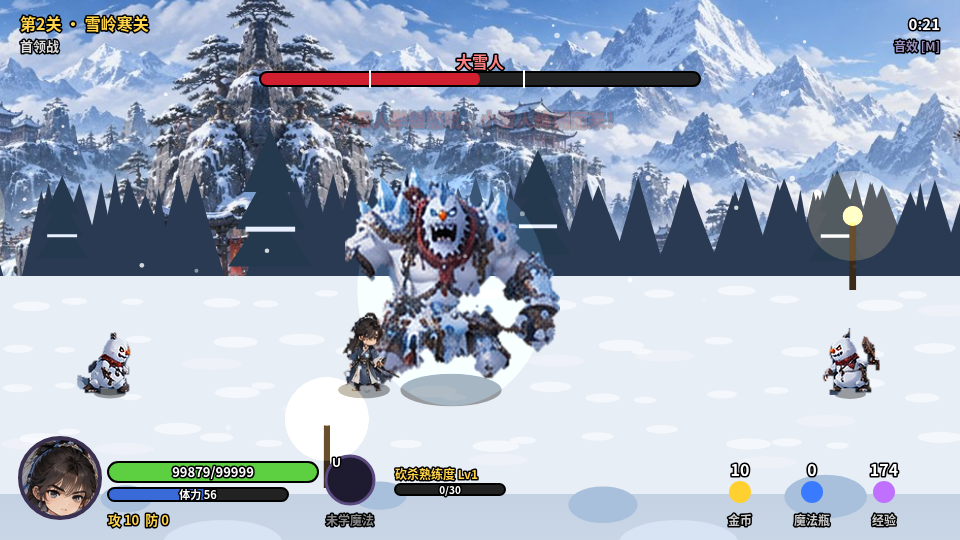
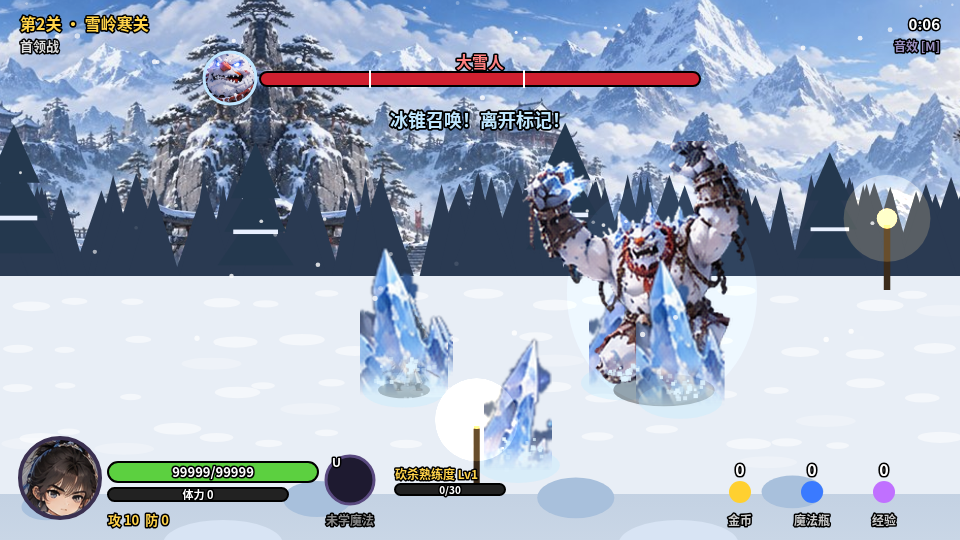
Stage 2 boss: dedicated snowboss sheet (BiRefNet cut), new moves (swing, smash+spike line, ice spike summon, giant snowball, frost shockwave, death), HP-bar expression portrait, docs

diff --git a/game.js b/game.js
@@ -44,7 +44,7 @@ const BOSSES={
  goblin_chief:{name:'哥布林酋长',shape:'big',hp:900,dmg:16,sp:55,exp:150,r:1.9,sc:1.12,col:'#4f8a3a',
   phases:[{at:1,pats:['combo','charge'],cd:1.9},{at:.5,pats:['combo','smash','summon'],summon:'goblin',cd:1.5,msg:'酋长怒吼，召唤援军！'}]},
  great_yeti:{name:'大雪人',shape:'snowboss',hp:2300,dmg:18,sp:60,exp:260,r:2.3,col:'#f2f7ff',face:'#3a6ac8',horns:1,crystals:1,
-  phases:[{at:1,pats:['hammer','snowballs','slam','roll'],cd:1.6},{at:.6,pats:['snowballs','summon','hammer','roll','slam'],summon:'yeti_pup',cd:1.35,msg:'大雪人举锤怒吼，小雪人蜂拥而来！'},{at:.25,pats:['blizzard','hammer','slam','roll','snowballs'],cd:1.05,enrage:1,msg:'暴风雪降临！冰石如雨！'}]},
+  phases:[{at:1,pats:['hammer','snowballs','slam','iceSummon','frostwave'],cd:1.6},{at:.6,pats:['snowballs','summon','hammer','iceSummon','slam','frostwave'],summon:'yeti_pup',cd:1.35,msg:'大雪人举锤怒吼，小雪人蜂拥而来！'},{at:.25,pats:['blizzard','hammer','slam','iceSummon','frostwave','roll'],cd:1.05,enrage:1,msg:'暴风雪降临！冰石如雨！'}]},
  flame_king:{name:'焰魔王·赤烎',shape:'warrior',hp:2400,dmg:22,sp:60,exp:400,r:2.4,col:'#7a0a08',horn:'#1a0a08',weapon:'#ff6a10',flame:1,king:1,
   phases:[{at:1,pats:['sweep','fireWave','sweep'],cd:1.6},{at:.6,pats:['geysers','summon','sweep','fireWave'],summon:'lava_imp',cd:1.35,msg:'赤烎召唤熔岩喷泉！'},
    {at:.25,pats:['meteors','fireWave','sweep','geysers'],cd:1.0,enrage:1,shrink:1,msg:'火山爆发！熔岩吞噬战场边缘！'}],
@@ -339,13 +339,18 @@ function updateBoss(e,dt,sl){const p=G.p,d=e.def;const ph=curPhase(e);
   case 'bloodOrbs':if(T>.5&&e.step<3&&T>.5+e.step*.3){e.step++;const a0=Math.atan2(p.y-e.y,p.x-e.x);for(let i=-2;i<=2;i++){const a=a0+i*.22;G.ep.push({k:'bloodorb',x:e.x+e.face*30,y:e.y,z:60,vx:Math.cos(a)*260,vy:Math.sin(a)*130,dmg:e.dmg*.6,life:3,own:e})}sfx('fire')}
    if(T>1.6)done();break;
   case 'bloodBurst':if(!e.step){e.step=1;G.hz.push({k:'burst',x:e.x,y:e.y,rx:280,ry:110,t:0,warn:1.7,act:.4,dmg:e.dmg*1.8,once:1,noz:1});msg('血爆！远离伯爵！','#ff3040')}if(T>2.3)done();break;
-  case 'hammer':if(T<.6){e.face=dx>0?1:-1;if(ad>reach)e.x+=e.face*e.sp*1.2*dt}else if(!e.step){e.step=1;sfx('swing');G.shake=10;strike(e,reach+60,1.4,60);const hx=e.x+e.face*90;particles(hx,e.y,18,'#dff4ff',18,200);G.hz.push({k:'shock',x:hx,y:e.y,r0:10,r1:120,t:0,act:.35,dmg:0,ice:1})}if(T>1.15)done();break;
-  case 'snowballs':case 'blizzard':{const n=e.pat==='blizzard'?10:3;const per=e.pat==='blizzard'?.14:.42;
-   if(T>.55+e.step*per&&e.step<n){e.step++;sfx('swing');const near=e.pat==='snowballs'&&e.step===1;const ice=e.pat==='snowballs'||e.step%3===0;lobSnow(e,p.x+(near?0:rnd(-220,220)),p.y+rnd(-40,40),e.dmg*(ice?1.1:.8),ice?70:48,ice?2:1.2,1.0+rnd(0,.35));if(ice)G.hz[G.hz.length-1].ice=1}
+  case 'hammer':if(T<.6){e.face=dx>0?1:-1;if(ad>reach)e.x+=e.face*e.sp*1.2*dt}else if(!e.step){e.step=1;sfx('swing');G.shake=10;strike(e,reach+60,1.4,60);const hx=e.x+e.face*90;particles(hx,e.y,18,'#dff4ff',18,200);G.hz.push({k:'shock',x:hx,y:e.y,r0:10,r1:120,t:0,act:.35,dmg:0,ice:1,sb:e.def.shape==='snowboss'?1:0})}if(T>1.15)done();break;
+  case 'snowballs':case 'blizzard':{const n=e.pat==='blizzard'?10:(e.def.shape==='snowboss'?2:3);const per=e.pat==='blizzard'?.14:.6;
+   if(T>.55+e.step*per&&e.step<n){e.step++;sfx('swing');const near=e.pat==='snowballs'&&e.step===1;const ice=e.pat==='snowballs'||e.step%3===0;const giant=e.pat==='snowballs'&&e.def.shape==='snowboss';lobSnow(e,p.x+(near?0:rnd(-220,220)),p.y+rnd(-40,40),e.dmg*(giant?1.3:ice?1.1:.8),giant?90:ice?70:48,giant?2.6:ice?2:1.2,(giant?1.25:1.0)+rnd(0,.35));if(giant)G.hz[G.hz.length-1].giant=1;else if(ice)G.hz[G.hz.length-1].ice=1}
    if(T>.9+n*per)done();break}
-  case 'slam':if(T>.95&&!e.step){e.step=1;G.shake=16;sfx('erupt');for(let i=0;i<3;i++)G.hz.push({k:'shock',x:e.x+e.face*40,y:e.y,r0:30,r1:300+i*40,t:-i*.3,act:.9,dmg:e.dmg*.9,ice:1});
+  case 'slam':if(T>.95&&!e.step){e.step=1;G.shake=16;sfx('erupt');G.hz.push({k:'shock',x:e.x+e.face*60,y:e.y,r0:20,r1:150,t:0,act:.5,dmg:0,ice:1});for(let i=0;i<9;i++)G.hz.push({k:'spike',sb:1,x:e.x+e.face*(110+i*62),y:e.y+rnd(-8,8),rx:30,ry:13,t:0,warn:.08+i*.07,act:.45,dmg:e.dmg*.9,once:1,v:i%2});
     if(Math.hypot(p.x-e.x-e.face*40,(p.y-e.y)*1.6)<110&&p.z<20)hurtPlayer(e.dmg*1.5,e);particles(e.x+e.face*40,e.y,10,'#ffffff',30,240)}
    if(T>1.7)done();break;
+  case 'iceSummon':if(T>.35&&!e.step){e.step=1;sfx('roar');const n=ph.enrage?7:5;for(let i=0;i<n;i++){const b=laneAt(p.x);const tx=i===0?p.x:clamp(p.x+rnd(-300,300),G.camX+40,G.camX+W-40);
+    G.hz.push({k:'spike',sb:1,x:tx,y:i===0?p.y:rnd(b[0],b[1]),rx:38,ry:16,t:0,warn:1.0+i*.06,act:.55,dmg:e.dmg,once:1,v:i%2,big:1})}msg('冰锥召唤！离开标记！','#bfe6ff')}
+   if(T>1.9)done();break;
+  case 'frostwave':if(T>.6&&!e.step){e.step=1;G.shake=14;sfx('erupt');for(let i=0;i<3;i++)G.hz.push({k:'shock',x:e.x,y:e.y,r0:40,r1:330+i*50,t:-i*.28,act:1,dmg:e.dmg*.85,ice:1,sb:1});particles(e.x,e.y,10,'#dff4ff',30,260)}
+   if(T>1.8)done();break;
   case 'roll':if(!e.step){e.step=1;msg('巨型雪球！跳起或换行躲避！','#bfe6ff')}
    if(T>.8&&e.step===1){e.step=2;const fromL=p.x>G.camX+W/2;const x0=fromL?G.camX-60:G.camX+W+60;G.ep.push({k:'rollball',x:x0,y:p.y,z:0,vx:(fromL?1:-1)*(360+80*(ph.enrage?1:0)),vy:0,dmg:e.dmg*1.2,life:5,ground:1,hw:52,hh:26,rad:58});sfx('roar')}
    if(T>1.4)done();break;
@@ -540,32 +545,36 @@ function enemyAnim(e){const d=e.def;if(e.dead)return ['death',e.deadT,false,6];i
  if(e.state==='wind'||e.state==='strike'){const T=e.state==='wind'?e.t/e.wind*.5:.5+e.t;if(sh==='big'&&e.atkType==='smash')return ['smash',T*1.5,false,4];return ['attack',T*1.8,false,5]}
  if(e.state==='leap')return [sh==='big'?'leap':'jumpatk',e.t,false,6];
  if(e.moving)return [d.ai==='fast'||e.boss&&curPhase(e).enrage?'run':'walk',e.at,true,8];return ['idle',e.at,true,5]}
-// 大雪人：单张正面高清立绘 + 补间姿态（避免低清动作帧的锯齿与特效残留）
-function bossPose(e){const P=e.pat,T=e.patT||0,o={dx:0,dy:0,qx:1,qy:1,rot:0,glow:0};const br=Math.sin(G.t*3);
- if(e.dead){const k=Math.min(1,e.deadT);o.rot=-.35*k;o.dy=10*k;o.qy=1-.15*k;return o}
- if(e.hurtT>0){o.rot=-.05;o.dx=-e.face*3}
- if(P==='hammer'||P==='roll'){const w=P==='hammer'?.6:.8;if(T<w){const k=T/w;o.rot=-.14*k;o.qy=1+.06*k;o.qx=1-.03*k;o.dx=-e.face*6*k}
-  else{const k=Math.min(1,(T-w)/.1),r=Math.max(0,1-(T-w-.1)/.45);o.rot=(.18*k)*r;o.qy=1-.1*k*r;o.qx=1+.08*k*r;o.dx=e.face*14*k*r}}
- else if(P==='slam'){if(T<.2){const k=T/.2;o.qy=1-.12*k;o.qx=1+.08*k}else if(T<.95){const k=(T-.2)/.75;o.dy=-Math.sin(k*Math.PI)*80;o.qy=1.06;o.qx=.96;o.rot=.05*Math.sin(k*Math.PI)}
-  else{const r=Math.max(0,1-(T-.95)/.35);o.qy=1-.16*r;o.qx=1+.12*r}}
- else if(P==='snowballs'||P==='blizzard'){const per=P==='blizzard'?.14:.42,ph=T<.55?T/.55:((T-.55)/per)%1;const s=Math.sin(ph*Math.PI*2);o.rot=-.1*s;o.qy=1+.05*s;o.qx=1-.03*s}
- else if(P==='summon'){o.dx=Math.sin(G.t*45)*3;o.qy=1.05+.02*br;o.glow=.18+.08*Math.sin(G.t*10)}
- else if(e.moving){const w=Math.sin(e.at*7);o.dy=-Math.abs(w)*6;o.rot=.04*w;o.qy=1+.02*Math.abs(w)}
- else{o.qy=1+.02*br;o.qx=1-.01*br}
+// 大雪人：ref/snowboss_sheet.png 动作帧（BiRefNet 抠图）+ 帧间补间（稀疏帧靠挤压/位移/旋转过渡）
+function drawBossFrame(name,x,y,face,sx,sy){const A=SNOWBOSS_ATLAS,f=A.frames[name];if(!f||!ready('snowboss'))return;ctx.save();ctx.imageSmoothingEnabled=true;ctx.imageSmoothingQuality='high';ctx.translate(x,y);ctx.scale(face*sx,sy);ctx.drawImage(IMG.snowboss,f.x,f.y,f.w,f.h,-f.ax,-f.ay,f.w,f.h);ctx.restore()}
+function bossPose(e){const P=e.pat,T=e.patT||0,o={fr:'idle',dx:0,dy:0,qx:1,qy:1,rot:0,glow:0,arc:0};const br=Math.sin(G.t*3);
+ if(e.dead){const k=Math.min(1,e.deadT/.35);o.fr=e.deadT<.25?'shock':'death';if(e.deadT<.25){o.qy=1-.1*k}else{const j=Math.min(1,(e.deadT-.25)/.2);o.qy=.85+.15*j;o.dy=6*(1-j)}return o}
+ if(P==='hammer'){if(T<.6){const k=T/.6;o.fr='swing';o.rot=-.1*k;o.qy=1+.04*k;o.dx=-e.face*8*k}
+  else{const k=Math.min(1,(T-.6)/.08),r=Math.max(0,1-(T-.75)/.4);o.fr='shock';o.dx=e.face*(18*k*Math.min(1,r+.3));o.qy=1-.08*k*r;o.qx=1+.06*k*r;o.rot=.06*k*r;o.arc=T<.92?1-(T-.6)/.32:0}}
+ else if(P==='slam'){if(T<.22){const k=T/.22;o.fr='idle';o.qy=1-.12*k;o.qx=1+.08*k}else if(T<.95){const k=(T-.22)/.73;o.fr='smash';o.dy=-Math.sin(k*Math.PI)*70;o.rot=-.06+.12*k}
+  else{const r=Math.max(0,1-(T-.95)/.35);o.fr='shock';o.qy=1-.14*r;o.qx=1+.1*r}}
+ else if(P==='iceSummon'||P==='summon'){const k=Math.min(1,T/.3);o.fr=T<.12?'idle':'summon';o.qy=.9+.1*k+.02*br;o.dx=T>.3?Math.sin(G.t*40)*2.5:0;o.glow=.12+.08*Math.sin(G.t*10)}
+ else if(P==='frostwave'){if(T<.6){const k=T/.6;o.fr='summon';o.qy=1+.05*k;o.dy=-14*Math.sin(k*Math.PI*.5);o.glow=.2*k}else{const r=Math.max(0,1-(T-.6)/.35);o.fr='shock';o.qy=1-.14*r;o.qx=1+.1*r;o.glow=.25*r}}
+ else if(P==='snowballs'||P==='blizzard'){const per=P==='blizzard'?.14:.6;if(T<.55){const k=T/.55;o.fr='summon';o.qy=.94+.06*k;o.rot=-.06*k}else{const ph=((T-.55)/per)%1;o.fr=ph<.55?'throw':'summon';o.rot=ph<.55?.05*(1-ph/.55):-.04;o.dx=ph<.55?e.face*8*(1-ph/.55):0}}
+ else if(P==='roll'){o.fr=T<.8?'swing':'throw';if(T>=.8){const r=Math.max(0,1-(T-.8)/.4);o.dx=e.face*12*r}}
+ else if(e.moving){const i=Math.floor(e.at*5)%4;o.fr=['walk_0','walk_1','walk_2','walk_1'][i];const w=Math.sin(e.at*5*Math.PI/2);o.dy=-Math.abs(w)*4;o.rot=.02*w}
+ else{o.fr='idle';o.qy=1+.025*br;o.qx=1-.012*br}
+ if(e.hurtT>0){o.rot-=.05;o.dx-=e.face*4}
  if(curPhase(e)&&curPhase(e).enrage&&!o.glow)o.glow=.08+.05*Math.sin(G.t*6);return o}
 function drawEnemy(e,sx){const d=e.def,sh=d.shape;const y=e.y-e.z;if(e.hidden){return}
- const alpha=e.dead?clamp(1.2-e.deadT,0,1):1;ctx.save();ctx.globalAlpha=alpha;
+ const alpha=e.dead?clamp((sh==='snowboss'?2.4:1.2)-e.deadT,0,1):1;ctx.save();ctx.globalAlpha=alpha;
  shadow(sx,e.y,22*e.r*(d.fly?.7:1),d.fly?.25:.35);
  const [an,t,loop,fps]=enemyAnim(e);
  if(sh==='gob'||sh==='big'||sh==='bat'||sh==='vamp'||sh==='snow'||sh==='snowboss'){const A={gob:GOBLIN_ATLAS,big:BIGGOBLIN_ATLAS,bat:BAT_ATLAS,vamp:VAMPIRE_ATLAS,snow:SNOWMAN_ATLAS,snowboss:SNOWBOSS_ATLAS}[sh];const ik=sh;
-  const base={gob:1.35,big:1.7,bat:1.5,vamp:1.55,snow:.85*e.r,snowboss:.82}[sh];let sc=base*(e.sc||1);
+  const base={gob:1.35,big:1.7,bat:1.5,vamp:1.55,snow:.85*e.r,snowboss:.9}[sh];let sc=base*(e.sc||1);
   const an2=A.anims[an]?an:'idle';
   if(e.frozen>0)ctx.filter='saturate(.2) brightness(1.3) hue-rotate(160deg)';else if(e.hurtT>0)ctx.filter='brightness(2)';else if(e.stun>0)ctx.filter='brightness(1.3)';else if(d.tintF)ctx.filter=d.tintF;
   if(d.tintF&&!e.dead){ctx.save();ctx.globalCompositeOperation='lighter';ell(sx,y-45*e.r,30*e.r,40*e.r,'rgba(90,170,255,.13)');ctx.restore()}
   if(sh==='snowboss'&&e.pat==='slam'&&e.patT<.95){ctx.save();ctx.globalCompositeOperation='lighter';ell(sx+e.face*40,y,60*e.patT+20,(60*e.patT+20)*.3,`rgba(140,210,255,${.25*e.patT})`);ctx.restore()}
   if(sh==='snowboss'){const q=bossPose(e);ctx.save();ctx.translate(sx+q.dx,y+q.dy);ctx.rotate(q.rot*e.face);ctx.scale(q.qx,q.qy);
    if(q.glow){ctx.save();ctx.globalCompositeOperation='lighter';ell(0,-95,95,110,`rgba(120,200,255,${q.glow})`);ctx.restore()}
-   drawAtlas(A,ik,'idle',0,0,0,e.face*GOB_FACE,sc,true,1);ctx.restore()}
+   drawBossFrame(q.fr,0,0,e.face*GOB_FACE,sc,sc);ctx.restore();
+   if(q.arc>0){ctx.save();const cx=sx+e.face*40,cy=y-80,a0=e.face>0?-1.7:Math.PI-1.1,a1=e.face>0?1.1:Math.PI+1.7;ctx.lineCap='round';for(const [lw,c] of [[22,'rgba(90,170,255,'+(.35*q.arc)+')'],[12,'rgba(200,240,255,'+(.8*q.arc)+')'],[4,'rgba(255,255,255,'+q.arc+')']]){ctx.strokeStyle=c;ctx.lineWidth=lw*(.5+.5*q.arc);ctx.beginPath();ctx.ellipse(cx,cy,130,95,0,a0,a1,e.face<0);ctx.stroke()}ctx.restore()}}
   else drawAtlas(A,ik,an2,loop?t:t,sx,y,e.face*GOB_FACE,sc,loop,fps);ctx.filter='none';
   if(d.tint||(d.phases&&e.boss&&e.def.tint)){/* 色调靠光晕表现 */ctx.save();ctx.globalCompositeOperation='lighter';ell(sx,y-40*e.r,26*e.r,34*e.r,'rgba(160,0,40,.12)');ctx.restore()}
   if(d.gear==='spear'){ctx.strokeStyle='#8a6a3a';ctx.lineWidth=3;ctx.beginPath();ctx.moveTo(sx-e.face*10,y-34);ctx.lineTo(sx+e.face*46,y-46);ctx.stroke();ctx.fillStyle='#cfd8e0';ctx.beginPath();ctx.moveTo(sx+e.face*46,y-50);ctx.lineTo(sx+e.face*58,y-47);ctx.lineTo(sx+e.face*46,y-42);ctx.fill()}
@@ -649,20 +658,23 @@ function drawPickup(k,sx){const y=k.y,z=k.z+Math.sin(G.t*4+k.x)*2;shadow(sx,y,8)
  if(k.kind==='armor'){ctx.beginPath();ctx.moveTo(sx-10,y-24-z);ctx.lineTo(sx+10,y-24-z);ctx.lineTo(sx+8,y-6-z);ctx.lineTo(sx,y-2-z);ctx.lineTo(sx-8,y-6-z);ctx.closePath();ctx.fillStyle='#8aa8c8';ctx.fill()}}
 // ---------- 特效绘制 ----------
 function drawHazard(h){const sx=h.x-G.camX;if(sx<-300||sx>W+300)return;const st=hzActive(h);
- if(h.k==='shock'){if(h.t<0)return;const r=h.r0+(h.r1-h.r0)*clamp(h.t/h.act,0,1);if(h.ice){const a=1-h.t/h.act;ctx.save();ctx.globalAlpha=a;for(let i=0;i<14;i++){const an=i/14*Math.PI*2,px=sx+Math.cos(an)*r,py=h.y+Math.sin(an)*r/2,hh=(18+10*hash(i+h.r1))*a+6;ctx.fillStyle=i%2?'#cfeeff':'#8fd0ff';ctx.strokeStyle=OUT;ctx.lineWidth=1.5;ctx.beginPath();ctx.moveTo(px-6,py);ctx.lineTo(px,py-hh);ctx.lineTo(px+6,py);ctx.closePath();ctx.fill();ctx.stroke()}ctx.restore();ctx.strokeStyle=`rgba(170,225,255,${a})`;ctx.lineWidth=5;ctx.beginPath();ctx.ellipse(sx,h.y,r,r/2,0,0,7);ctx.stroke();return}ctx.strokeStyle=`rgba(255,220,150,${1-h.t/h.act})`;ctx.lineWidth=6;ctx.beginPath();ctx.ellipse(sx,h.y,r,r/2,0,0,7);ctx.stroke();return}
+ if(h.k==='shock'){if(h.t<0)return;const r=h.r0+(h.r1-h.r0)*clamp(h.t/h.act,0,1);if(h.ice){const a=1-h.t/h.act;ctx.save();ctx.globalAlpha=a;for(let i=0;i<14;i++){const an=i/14*Math.PI*2,px=sx+Math.cos(an)*r,py=h.y+Math.sin(an)*r/2,hh=(18+10*hash(i+h.r1))*a+6;if(h.sb&&ready('snowboss')){drawBossFrame(i%2?'spike_b':'spike_a',px,py+3,1,.32*(.5+a*.6),.32*(.5+a*.6));continue}ctx.fillStyle=i%2?'#cfeeff':'#8fd0ff';ctx.strokeStyle=OUT;ctx.lineWidth=1.5;ctx.beginPath();ctx.moveTo(px-6,py);ctx.lineTo(px,py-hh);ctx.lineTo(px+6,py);ctx.closePath();ctx.fill();ctx.stroke()}ctx.restore();ctx.strokeStyle=`rgba(170,225,255,${a})`;ctx.lineWidth=5;ctx.beginPath();ctx.ellipse(sx,h.y,r,r/2,0,0,7);ctx.stroke();return}ctx.strokeStyle=`rgba(255,220,150,${1-h.t/h.act})`;ctx.lineWidth=6;ctx.beginPath();ctx.ellipse(sx,h.y,r,r/2,0,0,7);ctx.stroke();return}
  const wc={crack:'255,90,20',puddle:'255,110,20',geyser:'255,90,20',bloodpillar:'220,0,40',meteor:'255,120,40',icicle:'150,220,255',skybolt:'200,170,255',arrows:'255,230,150',spike:'150,220,255',snowball:'120,170,230',mark:'255,200,80',burst:'255,0,40'}[h.k]||'255,255,255';
  if(st===1||(h.k==='crack'&&st===0)){const pr=h.cyc?0:clamp(h.t/h.warn,0,1);const a=st===0?.18:.35+.35*Math.abs(Math.sin(G.t*12));
   ctx.strokeStyle=`rgba(${wc},${a})`;ctx.lineWidth=3;ctx.setLineDash([8,6]);ctx.beginPath();ctx.ellipse(sx,h.y,h.rx,h.ry,0,0,7);ctx.stroke();ctx.setLineDash([]);
   ctx.fillStyle=`rgba(${wc},${st===0?.08:.18})`;ctx.beginPath();ctx.ellipse(sx,h.y,h.rx*(h.cyc?1:pr),h.ry*(h.cyc?1:pr),0,0,7);ctx.fill();
   if(['meteor','icicle','arrows','skybolt'].includes(h.k)){const fall=(1-pr)*420;ell(sx,h.y,h.rx*.5*pr,h.ry*.5*pr,'rgba(0,0,0,.4)');
    if(h.k==='meteor')fx('fireball',sx+fall*.3,h.y-fall-20,.8,.9,1,.6);else if(h.k==='icicle')fx('ice_lance',sx,h.y-fall-20,.4,.9,1,Math.PI/2);else if(h.k==='arrows'){ctx.strokeStyle='#ddd';ctx.lineWidth=2;for(let i=0;i<4;i++){const ax=sx+(i-1.5)*14,ay=h.y-fall-i*10;ctx.beginPath();ctx.moveTo(ax,ay);ctx.lineTo(ax+4,ay-22);ctx.stroke()}}}
-  if(h.k==='snowball'){const ox=h.ox-G.camX;const bx=ox+(sx-ox)*pr,by=h.oy+(h.y-h.oy)*pr-h.oz*(1-pr)-Math.sin(pr*Math.PI)*(160+60*h.sc);ell(sx,h.y,h.rx*.6*pr,h.ry*.6*pr,'rgba(10,20,50,.45)');drawSnowball(bx,by,(h.ice?13:9)*h.sc,G.t*(h.ice?4:8),h.ice)}
+  if(h.k==='snowball'){const ox=h.ox-G.camX;const bx=ox+(sx-ox)*pr,by=h.oy+(h.y-h.oy)*pr-h.oz*(1-pr)-Math.sin(pr*Math.PI)*(160+60*h.sc);ell(sx,h.y,h.rx*.6*pr,h.ry*.6*pr,'rgba(10,20,50,.45)');if(h.giant)drawSprite(SNOWBOSS_ATLAS,'snowboss','snowball',bx,by,26*h.sc,G.t*3);else drawSnowball(bx,by,(h.ice?13:9)*h.sc,G.t*(h.ice?4:8),h.ice)}
   if(h.k==='burst')txt('!',sx,h.y-140,40,'#ff3040','center');return}
- if(st===2){const k=h.k;ctx.save();
+ if(st===2||(st===3&&h.sb&&h.k==='spike')){const k=h.k;ctx.save();
   if(k==='crack'||k==='puddle'){ctx.globalCompositeOperation='lighter';ctx.fillStyle=`rgba(255,${100+60*Math.random()|0},20,.55)`;ctx.beginPath();ctx.ellipse(sx,h.y,h.rx,h.ry,0,0,7);ctx.fill();fx('firewall',sx,h.y+4,h.rx/90,.6,1,0,'b')}
   else if(k==='geyser'){fx('firewall',sx,h.y+6,.8,.95,1,0,'b');fx('explosion',sx,h.y-60,.7,.6)}
   else if(k==='bloodpillar'){fx('blood_pillar',sx,h.y+6,1.1,1,1,0,'b')}
   else if(k==='meteor'){fx('explosion',sx,h.y-30,.9,1)}
+  else if(k==='spike'&&h.sb&&ready('snowboss')){const tt=h.t-h.warn,up=clamp(tt/.1,0,1),down=clamp((h.act+.3-tt)/.25,0,1),k2=up*down;
+   ell(sx,h.y,h.rx*1.1,h.ry*1.1,`rgba(190,235,255,${.35*k2})`);drawBossFrame(h.v?'spike_b':'spike_a',sx,h.y+4,1,(h.big?.85:.62),(h.big?.85:.62)*k2);
+   if(tt<.12)particles(h.x,h.y,4,'#dff4ff',4,120)}
   else if(k==='icicle'||k==='spike'){fx('ice_spikes',sx,h.y+6,.7,1,1,0,'b')}
   else if(k==='skybolt'){fx('thunder_orb',sx,h.y-20,1,1)}
   else if(k==='arrows'){ctx.strokeStyle='#ccc';ctx.lineWidth=2;for(let i=0;i<5;i++){ctx.beginPath();ctx.moveTo(sx+(i-2)*12,h.y);ctx.lineTo(sx+(i-2)*12+3,h.y-18);ctx.stroke()}}
@@ -678,7 +690,7 @@ function drawProj(q,enemy){const sx=q.x-G.camX,y=q.y-q.z;shadow(sx,q.y,10,.2);co
  if(q.k==='arrow'){ctx.strokeStyle='#d8c8a0';ctx.lineWidth=2;ctx.beginPath();ctx.moveTo(sx,y);ctx.lineTo(sx-q.vx*.06,y-q.vy*.06);ctx.stroke();return}
  if(q.k==='bloodorb'){ctx.save();ctx.globalCompositeOperation='lighter';ell(sx,y,10,10,'rgba(255,20,60,.9)');ell(sx,y,18,18,'rgba(200,0,40,.35)');ctx.restore();return}
  if(q.k==='firewave'){fx('firewall',sx,q.y+6,.7,.95,fl,0,'b');return}
- if(q.k==='rollball'){ell(sx,q.y+2,q.rad*1.05,q.rad*.32,'rgba(10,20,50,.4)');drawSnowball(sx,q.y-q.rad,q.rad,q.x/q.rad*fl);if(Math.random()<.5)particles(q.x-fl*q.rad,q.y,4,'#ffffff',4,90);return}
+ if(q.k==='rollball'){ell(sx,q.y+2,q.rad*1.05,q.rad*.32,'rgba(10,20,50,.4)');if(!drawSprite(SNOWBOSS_ATLAS,'snowboss','snowball',sx,q.y-q.rad,q.rad*2.1,q.x/q.rad*fl))drawSnowball(sx,q.y-q.rad,q.rad,q.x/q.rad*fl);if(Math.random()<.5)particles(q.x-fl*q.rad,q.y,4,'#ffffff',4,90);return}
  if(m)fx(m[0],sx,y,m[1],1,fl)}
 function drawZone(z){const sx=z.x-G.camX;const a=clamp(Math.min(z.t*4,(z.dur-z.t)*3),0,1);
  switch(z.k){case 'firewall':fx('firewall',sx,z.y+10,1.1,a,1,0,'b');break;case 'vortex':fx('vortex',sx,z.y-40,1.3,a*.9,1,0);break;
@@ -741,7 +753,9 @@ function drawHUD(){const p=G.p;
  const tx=20;txt('第'+G.S.id+'关 · '+G.S.name,tx,24,16,'#ffd34a');const nw=G.B.waves.length-1;txt(G.wave>=nw?'首领战':'波次 '+Math.min(G.wave+1,nw)+'/'+nw,tx,46,13,'#ddd');
  txt(fmtT(G.time),W-20,24,15,'#fff','right');txt(AU.muted?'静音 [M]':'音效 [M]',W-20,46,12,AU.muted?'#f88':'#9a8fc0','right');
  const bs=G.boss&&!G.boss.dead?G.boss:G.mini&&!G.mini.dead?G.mini:null;
- if(bs){const w=440,x=(W-w)/2;txt(bs.def.name,W/2,62,16,'#ff8080','center');bar(x,72,w,14,bs.hp/bs.maxhp,'#d02030');
+ if(bs){const w=440,x=(W-w)/2;if(bs.def.shape==='snowboss'&&ready('snowboss')){const fc=bs.hurtT>0||bs.hp/bs.maxhp<.1?'face_hurt':['face_normal','face_angry','face_roar'][bs.phase]||'face_roar';
+   ctx.save();ctx.beginPath();ctx.arc(x-30,78,26,0,7);ctx.fillStyle='#1a2236';ctx.fill();ctx.clip();drawBossFrame(fc,x-30,78,1,.5,.5);ctx.restore();ctx.strokeStyle=bs.phase>=2?'#ff5050':'#bfe6ff';ctx.lineWidth=3;ctx.beginPath();ctx.arc(x-30,78,26,0,7);ctx.stroke()}
+  txt(bs.def.name,W/2,62,16,'#ff8080','center');bar(x,72,w,14,bs.hp/bs.maxhp,'#d02030');
   bs.def.phases.forEach((ph,i)=>{if(i){const px=x+w*ph.at;ctx.fillStyle='#fff';ctx.fillRect(px-1,70,2,18)}})}
  if(G.go>0&&Math.floor(G.t*3)%2)txt('GO →',W-120,200,44,'#ffd34a','center');
  G.msgs.forEach((m,i)=>{ctx.globalAlpha=Math.min(1,m.life*2);txt(m.t,W/2,120+i*26,18,m.c,'center');ctx.globalAlpha=1});

diff --git a/assets/snowman_atlas.js b/assets/snowman_atlas.js
@@ -1,2 +1,2 @@
 window.SNOWMAN_ATLAS={"image": "assets/snowman_atlas.png", "source": "ref/snowman_sheet.png", "frames": {"idle_0": {"x": 0, "y": 0, "w": 88, "h": 99, "ax": 33, "ay": 98}, "idle_1": {"x": 90, "y": 0, "w": 96, "h": 93, "ax": 34, "ay": 92}, "idle_2": {"x": 188, "y": 0, "w": 99, "h": 94, "ax": 44, "ay": 93}, "idle_3": {"x": 289, "y": 0, "w": 87, "h": 96, "ax": 38, "ay": 94}, "idle_4": {"x": 378, "y": 0, "w": 104, "h": 94, "ax": 46, "ay": 93}, "idle_5": {"x": 484, "y": 0, "w": 90, "h": 99, "ax": 51, "ay": 98}, "walk_0": {"x": 576, "y": 0, "w": 78, "h": 99, "ax": 42, "ay": 96}, "walk_1": {"x": 656, "y": 0, "w": 93, "h": 110, "ax": 52, "ay": 108}, "walk_2": {"x": 751, "y": 0, "w": 76, "h": 99, "ax": 42, "ay": 96}, "walk_3": {"x": 829, "y": 0, "w": 105, "h": 110, "ax": 63, "ay": 102}, "walk_4": {"x": 0, "y": 112, "w": 92, "h": 100, "ax": 56, "ay": 98}, "walk_5": {"x": 94, "y": 112, "w": 98, "h": 110, "ax": 51, "ay": 108}, "attack_0": {"x": 194, "y": 112, "w": 104, "h": 112, "ax": 50, "ay": 108}, "attack_1": {"x": 300, "y": 112, "w": 146, "h": 114, "ax": 81, "ay": 112}, "throw_0": {"x": 448, "y": 112, "w": 117, "h": 111, "ax": 62, "ay": 110}, "throw_1": {"x": 567, "y": 112, "w": 118, "h": 105, "ax": 66, "ay": 104}, "throw_2": {"x": 687, "y": 112, "w": 120, "h": 105, "ax": 58, "ay": 104}, "throw_3": {"x": 809, "y": 112, "w": 135, "h": 111, "ax": 64, "ay": 110}, "death_0": {"x": 0, "y": 228, "w": 130, "h": 100, "ax": 80, "ay": 96}, "death_1": {"x": 132, "y": 228, "w": 116, "h": 84, "ax": 48, "ay": 82}, "death_2": {"x": 250, "y": 228, "w": 134, "h": 92, "ax": 66, "ay": 86}, "death_3": {"x": 386, "y": 228, "w": 153, "h": 74, "ax": 82, "ay": 68}, "death_4": {"x": 541, "y": 228, "w": 196, "h": 80, "ax": 98, "ay": 78}, "snowball": {"x": 739, "y": 228, "w": 100, "h": 106, "ax": 51, "ay": 54}, "iceblock": {"x": 841, "y": 228, "w": 128, "h": 122, "ax": 62, "ay": 60}}, "anims": {"idle": ["idle_0", "idle_1", "idle_2", "idle_3", "idle_4", "idle_5"], "walk": ["walk_0", "walk_1", "walk_2", "walk_3", "walk_4", "walk_5"], "attack": ["attack_0", "attack_1"], "throw": ["throw_0", "throw_1", "throw_2", "throw_3"], "death": ["death_0", "death_1", "death_2", "death_3", "death_4"], "hurt": ["death_0"]}};
-window.SNOWBOSS_ATLAS={"image": "assets/snowboss_atlas.png", "source": "ref/snowman_sheet.png（大雪人BOSS·正面）", "frames": {"front": {"x": 0, "y": 0, "w": 262, "h": 264, "ax": 131, "ay": 260}}, "anims": {"idle": ["front"], "walk": ["front"], "attack": ["front"], "shock": ["front"], "throw": ["front"], "summon": ["front"], "hurt": ["front"], "death": ["front"]}};
+window.SNOWBOSS_ATLAS={"image": "assets/snowboss_atlas.png", "source": "ref/snowboss_sheet.png", "frames": {"idle": {"x": 1579, "y": 0, "w": 299, "h": 210, "ax": 138, "ay": 209}, "walk_0": {"x": 1351, "y": 0, "w": 226, "h": 224, "ax": 118, "ay": 223}, "walk_1": {"x": 1109, "y": 0, "w": 240, "h": 228, "ax": 100, "ay": 225}, "walk_2": {"x": 0, "y": 311, "w": 243, "h": 204, "ax": 122, "ay": 203}, "swing": {"x": 236, "y": 0, "w": 292, "h": 300, "ax": 172, "ay": 299}, "smash": {"x": 0, "y": 0, "w": 234, "h": 309, "ax": 118, "ay": 308}, "summon": {"x": 530, "y": 0, "w": 254, "h": 274, "ax": 98, "ay": 272}, "throw": {"x": 786, "y": 0, "w": 321, "h": 249, "ax": 116, "ay": 247}, "shock": {"x": 881, "y": 311, "w": 220, "h": 153, "ax": 96, "ay": 150}, "death": {"x": 351, "y": 311, "w": 446, "h": 190, "ax": 223, "ay": 188}, "spike_a": {"x": 245, "y": 311, "w": 104, "h": 200, "ax": 52, "ay": 199}, "spike_b": {"x": 799, "y": 311, "w": 80, "h": 160, "ax": 40, "ay": 159}, "snowball": {"x": 1103, "y": 311, "w": 128, "h": 128, "ax": 64, "ay": 64}, "face_normal": {"x": 1233, "y": 311, "w": 112, "h": 112, "ax": 56, "ay": 56}, "face_angry": {"x": 1347, "y": 311, "w": 112, "h": 112, "ax": 56, "ay": 56}, "face_roar": {"x": 1461, "y": 311, "w": 112, "h": 112, "ax": 56, "ay": 56}, "face_hurt": {"x": 1575, "y": 311, "w": 112, "h": 112, "ax": 56, "ay": 56}, "face_dead": {"x": 1689, "y": 311, "w": 112, "h": 112, "ax": 56, "ay": 56}}, "anims": {"idle": ["idle"], "walk": ["walk_0", "walk_1", "walk_2", "walk_1"], "swing": ["swing"], "smash": ["smash"], "summon": ["summon"], "throw": ["throw"], "shock": ["shock"], "death": ["death"], "hurt": ["idle"]}};

diff --git a/tools/snowboss2.py b/tools/snowboss2.py
@@ -1,0 +1,94 @@
+# 大雪人BOSS 切图：ref/snowboss_sheet.png → assets/snowboss_atlas.png/.json（并更新 assets/snowman_atlas.js 中的 SNOWBOSS_ATLAS）
+# 1) 每个动作面板用 rembg(BiRefNet) 抠出人物（结果缓存于 ref/snowboss_cut/，缺失时自动重新生成；每张单独进程以免爆内存）
+# 2) 去重影：只保留主体连通块、alpha 收紧、半透明边缘颜色取最近内部像素（去背景色晕边）
+# 3) 统一比例与脚底锚点；所有帧朝右（砸地帧镜像），游戏内按朝向翻转
+# 4) 特效单独成图：冰锥 ×2、巨型雪球；表情头像 ×5 用于首领血条
+import os,sys,json,re,subprocess
+import numpy as np
+from PIL import Image,ImageFilter
+from scipy import ndimage as nd
+ROOT=os.path.dirname(os.path.dirname(os.path.abspath(__file__)))
+SHEET=Image.open(f'{ROOT}/ref/snowboss_sheet.png').convert('RGB')
+CUT=f'{ROOT}/ref/snowboss_cut'
+R1,R2,F=562,753,1.5
+PANELS={'idle':(5,8,205,130,R1),'walk_0':(222,10,332,130,R1),'walk_1':(330,10,442,130,R1),'walk_2':(440,10,548,130,R1),
+ 'swing':(545,-14,752,130,R1),'smash':(750,-14,1022,130,R1),
+ 'summon':(8,12,272,170,R2),'throw':(272,12,535,170,R2),'shock':(535,12,822,170,R2),'death':(820,12,1022,170,R2)}
+def panel(k):
+  a,b,c,d,y0=PANELS[k];return SHEET.crop((int(a*F),y0+int(b*F),int(c*F),y0+int(d*F)))
+def rembg_one(k):
+  p=f'{CUT}/{k}.png'
+  if os.path.exists(p):return Image.open(p)
+  tmp=f'/tmp/sb_raw_{k}.png';panel(k).save(tmp)
+  subprocess.check_call([sys.executable,'-c',f"from rembg import remove,new_session;from PIL import Image;remove(Image.open('{tmp}'),session=new_session('birefnet-general')).save('{p}')"])
+  return Image.open(p)
+SCALE={'idle':.82}          # 待机面板画得偏大，缩到与行走一致
+FLIP={'smash'}              # 砸地帧原图朝左
+UP=1.5                      # 图集放大倍率（游戏内再缩放绘制）
+def clean(img):
+  a=np.array(img.convert('RGBA')).astype(float);al=a[...,3]/255
+  al=np.clip((al-.25)/.55,0,1)
+  m=al>.5;lab,n=nd.label(m);sz=nd.sum(m,lab,range(1,n+1));core=lab==(np.argmax(sz)+1)
+  near=nd.binary_dilation(core,iterations=2);keep=core.copy()
+  for i in range(1,n+1):
+    c=lab==i
+    if sz[i-1]>40 and (c&near).any():keep|=c
+  al=al*nd.binary_dilation(keep,iterations=1)
+  inner=al>.95
+  idx=nd.distance_transform_edt(~inner,return_distances=False,return_indices=True)
+  rgb=a[...,:3][idx[0],idx[1]]
+  semi=(al>0)&~inner;a[...,:3][semi]=rgb[semi]
+  a[...,3]=al*255
+  o=Image.fromarray(a.clip(0,255).astype(np.uint8));bb=o.getbbox();return o.crop(bb)
+frames={}
+for k in PANELS:
+  raw=rembg_one(k)
+  if k=='shock':  # 去掉左侧插入的冰晶碎片（冲击波冰锥由游戏代码另行绘制）
+    a=np.array(raw.convert('RGBA'));a[:97,:143,3]=0;raw=Image.fromarray(a)
+  if k=='death':  # 去掉右上角冰晶
+    a=np.array(raw.convert('RGBA'));bb=raw.getbbox();x0=int(bb[0]+(bb[2]-bb[0])*.86);y1=int(bb[1]+(bb[3]-bb[1])*.55)
+    sub=a[:y1,x0:].astype(int);ice=(sub[...,2]-sub[...,0]>20);a[:y1,x0:,3][ice]=0;raw=Image.fromarray(a)
+  im=clean(raw)
+  if k in FLIP:im=im.transpose(Image.FLIP_LEFT_RIGHT)
+  s=SCALE.get(k,1)*UP
+  im=im.resize((round(im.width*s),round(im.height*s)),Image.LANCZOS).filter(ImageFilter.UnsharpMask(1,40,2))
+  al=np.array(im)[...,3];ys,xs=np.where(al>128)
+  foot=ys.max();low=ys>foot-(foot-ys.min())*.35
+  ax=int(np.median(xs[low])) if k!='death' else im.width//2
+  frames[k]=(im,ax,foot)
+# 特效：冰锥（冰锥召唤面板左侧）、巨型雪球（雪球投掷面板，圆形裁切）
+summ=np.array(panel('summon')).astype(float)
+def spike(x0,y0,x1,y1):
+  s=summ[y0:y1,x0:x1];bg=np.median(s[:6].reshape(-1,3),0);d=np.sqrt(((s-bg)**2).sum(2))
+  m=nd.binary_fill_holes(nd.binary_opening(d>45,iterations=1));lab,n=nd.label(m);sz=nd.sum(m,lab,range(1,n+1));m=lab==np.argmax(sz)+1
+  al=nd.gaussian_filter(m.astype(float),.7);H=s.shape[0];al*=np.clip((H-np.arange(H))/(H*.25),0,1)[:,None]
+  im=Image.fromarray(np.dstack([s,al*255]).clip(0,255).astype(np.uint8));im=im.resize((im.width*2,im.height*2),Image.LANCZOS)
+  return im,im.width//2,im.height-1
+frames['spike_a']=spike(10,50,62,150)
+frames['spike_b']=spike(330,70,370,150)
+th=np.array(panel('throw')).astype(float);cx,cy,r=305,82,62
+yy,xx=np.mgrid[:th.shape[0],:th.shape[1]];dd=np.hypot(xx-cx,yy-cy)
+al=np.clip((r-dd)/3,0,1);ball=Image.fromarray(np.dstack([th,al*255]).clip(0,255).astype(np.uint8)).crop((cx-r-2,cy-r-2,cx+r+2,cy+r+2))
+frames['snowball']=(ball,ball.width//2,ball.height//2)
+# 表情头像（方形裁切，背景保留，游戏内圆形遮罩）
+FX0,FY0=750,347
+for i,(nm,cx) in enumerate([('face_normal',80),('face_angry',236),('face_roar',396),('face_hurt',549),('face_dead',699)]):
+  im=SHEET.crop((FX0+cx-66,FY0+20,FX0+cx+66,FY0+152)).resize((112,112),Image.LANCZOS);frames[nm]=(im.convert('RGBA'),56,56)
+# 打包
+W=2048;x=y=rowh=0;pos={}
+order=sorted(frames,key=lambda k:-frames[k][0].height)
+for k in order:
+  im=frames[k][0]
+  if x+im.width>W:x=0;y+=rowh+2;rowh=0
+  pos[k]=(x,y);x+=im.width+2;rowh=max(rowh,im.height)
+H=y+rowh;atlas=Image.new('RGBA',(W,H))
+J={"image":"assets/snowboss_atlas.png","source":"ref/snowboss_sheet.png","frames":{},"anims":{
+ "idle":["idle"],"walk":["walk_0","walk_1","walk_2","walk_1"],"swing":["swing"],"smash":["smash"],"summon":["summon"],
+ "throw":["throw"],"shock":["shock"],"death":["death"],"hurt":["idle"]}}
+for k,(im,ax,ay) in frames.items():
+  px,py=pos[k];atlas.alpha_composite(im,(px,py));J['frames'][k]={"x":px,"y":py,"w":im.width,"h":im.height,"ax":int(ax),"ay":int(ay)}
+atlas.save(f'{ROOT}/assets/snowboss_atlas.png');json.dump(J,open(f'{ROOT}/assets/snowboss_atlas.json','w'),ensure_ascii=False)
+js=open(f'{ROOT}/assets/snowman_atlas.js').read()
+js=re.sub(r'window\.SNOWBOSS_ATLAS=.*',lambda m:'window.SNOWBOSS_ATLAS='+json.dumps(J,ensure_ascii=False)+';',js)
+open(f'{ROOT}/assets/snowman_atlas.js','w').write(js)
+print(atlas.size,{k:(v['w'],v['h']) for k,v in J['frames'].items()})

diff --git a/tools/snowboss_check.py b/tools/snowboss_check.py
@@ -1,0 +1,21 @@
+# 生成 screenshot_snowboss_check.png：所有帧按脚底锚点对齐在同一地平线上（检查单人物、无晕边、比例/锚点一致）
+import json,os
+from PIL import Image,ImageDraw,ImageFont
+ROOT=os.path.dirname(os.path.dirname(os.path.abspath(__file__)))
+J=json.load(open(f'{ROOT}/assets/snowboss_atlas.json'));A=Image.open(f'{ROOT}/assets/snowboss_atlas.png')
+try:font=ImageFont.truetype('/usr/share/fonts/opentype/noto/NotoSansCJK-Regular.ttc',16)
+except Exception:font=None
+body=['idle','walk_0','walk_1','walk_2','swing','smash','summon','throw','shock','death']
+fxs=['spike_a','spike_b','snowball','face_normal','face_angry','face_roar','face_hurt','face_dead']
+cw,base=330,330;out=Image.new('RGB',(cw*5,(base+40)*2+260),(52,62,84));d=ImageDraw.Draw(out)
+for i,k in enumerate(body):
+  f=J['frames'][k];im=A.crop((f['x'],f['y'],f['x']+f['w'],f['y']+f['h']))
+  col,row=i%5,i//5;ox=col*cw+cw//2;oy=row*(base+40)+base
+  bg=(214,226,240) if (i+row)%2 else (120,132,150);d.rectangle((col*cw,row*(base+40),col*cw+cw-2,oy+38),fill=bg)
+  d.line((col*cw,oy,col*cw+cw,oy),fill=(255,60,60));d.line((ox,oy-300,ox,oy+8),fill=(255,60,60))
+  out.paste(im,(ox-f['ax'],oy-f['ay']),im);d.text((col*cw+6,row*(base+40)+4),k,fill=(0,0,0),font=font)
+y0=(base+40)*2+10;x=10
+for k in fxs:
+  f=J['frames'][k];im=A.crop((f['x'],f['y'],f['x']+f['w'],f['y']+f['h']));d.rectangle((x-4,y0,x+im.width+4,y0+230),fill=(120,132,150) if k.startswith('face') else (40,70,50))
+  out.paste(im,(x,y0+20),im);d.text((x,y0+2),k,fill=(255,255,255),font=font);x+=im.width+24
+out.save(f'{ROOT}/screenshot_snowboss_check.png');print(out.size)

diff --git a/docs/关卡设计.md b/docs/关卡设计.md
@@ -34,21 +34,26 @@
 
 - 背景：`assets/bg/stage2_far.jpg`，飘雪。第 7 波起随机落下冰锥（预警圈）。
 - 抗性：**冰伤 ×0.5（冰抗），火伤 ×1.5（火弱）**——推荐火系法术。
-- 美术：`ref/snowman_sheet.png` 切图（左侧「雪人怪物」→ `assets/snowman_atlas.png`，右侧「大雪人BOSS」→ `assets/snowboss_atlas.png`）。小怪切图时每帧只保留一个角色（去除斩击光弧、相邻帧残片），去灰边，统一脚底锚点与比例。大雪人的动作切片原图过小（约 70 px）且与冰雪特效重叠，放大后锯齿明显，因此改用右上角「正面」高清立绘（`tools/snowboss_front.py` 抠图、去除背景色块、2× 放大锐化），各招式用补间姿态（蓄力后仰、挥锤前倾、起跳落地压扁、投掷摆臂、召唤震颤+寒光）配合代码绘制的冰屑/冲击波/冰石表现。
+- 美术：小怪来自 `ref/snowman_sheet.png`（左侧「雪人怪物」→ `assets/snowman_atlas.png`），每帧只保留一个角色（去除斩击光弧、相邻帧残片），去灰边，统一脚底锚点与比例。**大雪人**使用专用高清设定图 `ref/snowboss_sheet.png`（三视图 / 表情 / 武器细节 / 动作图）：`tools/snowboss2.py` 对每个动作面板用 rembg（BiRefNet 模型，每图单独进程）抠出人物（缓存于 `ref/snowboss_cut/`），只保留主体连通域、alpha 重映射去灰边、边缘颜色去污染，统一脚底锚点与比例，侧身朝右为原生朝向（左向时水平翻转）。冰锥、巨雪球单独切成特效精灵，「表情」行切成 5 个头像（normal / angry / roar / hurt / dead）。帧检查图：`screenshot_snowboss_check.png`。
 - 敌人（全部为雪人系，红围巾、木棒）：
   - **小雪人**：缩小版雪人，移动快，成群扑来（行走动画加速）。
   - **木棒雪人**：标准近战（「攻击(近战)」行：举棒蓄力 → 挥击），偶尔重砸。
   - **雪球雪人**：保持距离，播放「投掷雪球」行动画，抛出**弧线雪球**（雪球精灵）——地面先出现落点阴影，落地溅射伤害。
   - **冰甲雪人**（精英）：体型 ×1.6，冰蓝色调 + 寒气光晕，重甲，重砸后露出「破绽」。
 - 波次（18 波）：小雪人 / 木棒雪人 / 雪球雪人混编，第 6、10、14、18 波为精英波；第 3、7、11、15 波后有女巫。
-- **首领 · 大雪人**（HP 2300，冰刺背甲、锁链冰锤）——招式（参考图中各动作行设计）：
-  - **近战锤击**（近战攻击行）：举锤 → 砸下，前方近距离重击并溅起冰屑。
-  - **冰雪冲击波**（冰雪冲击波行）：举锤蓄力（脚下寒光渐亮）后砸地，三圈带冰刺的冲击波向外扩散（跳起躲避）。
-  - **投掷冰石**（投掷巨石行）：抛出巨大冰石（冰块精灵），落点地面阴影逐渐扩大，落地溅射。
-  - **滚动巨雪球**：挥锤击出巨雪球，从屏幕一侧滚过玩家所在纵深（跳起或换行躲避）。
-  - 阶段 1：锤击、冰石、冲击波、巨雪球
-  - 阶段 2（60%）：增加**召唤小雪人**（召唤小雪人行）——「大雪人举锤怒吼，小雪人蜂拥而来！」
-  - 阶段 3（25%，狂暴）：**暴风雪弹幕**（10 连抛，冰石与雪球混合）+ 锤击 + 冲击波 + 巨雪球 ——「暴风雪降临！冰石如雨！」
+- **首领 · 大雪人**（HP 2300，冰刺背甲、锁链冰锤）——全部使用设定图动作帧，稀疏帧之间以补间（呼吸、蓄力下蹲、前冲、震颤、压扁拉伸）衔接：
+  - **待机 / 行走**：待机帧 + 呼吸补间；行走 3 帧循环（0-1-2-1）带上下起伏。
+  - **锁链冰锤挥击**（攻击·挥击）：举锤蓄力 → 挥出并前冲，代码绘制挥击弧光，前方冰锥环冲击。
+  - **砸地 + 冰锥喷发**（攻击·砸地）：下蹲 → 跃起（砸地帧）→ 落地，沿所在纵深前方依次升起 9 根冰锥（逐根延迟，冰锥精灵升起再沉下）。
+  - **冰锥召唤**（技能·冰锥召唤）：举手召唤，地面出现 5 个（狂暴 7 个）虚线标记，第一个锁定玩家，约 1 秒后冰锥破土而出——离开标记！
+  - **巨雪球投掷**（技能·雪球投掷）：抛出弧线巨雪球（雪球精灵 ×2.6），地面落点阴影逐渐扩大，落地溅射。
+  - **冰霜冲击波**（技能·冰霜冲击波）：蓄力后砸地，三圈带冰锥精灵的冲击波向外扩散（跳起躲避）。
+  - **滚动巨雪球**（狂暴）：挥锤击出巨雪球横穿玩家所在纵深。
+  - **死亡**：冲击帧 → 倒地帧，2.4 秒淡出。
+  - HP 条左侧圆形头像随阶段切换表情：阶段 1 普通、阶段 2 愤怒、阶段 3 咆哮（红框）；受击或 HP<10% 时为受伤表情。
+  - 阶段 1：挥击、巨雪球、砸地冰锥、冰锥召唤、冰霜冲击波
+  - 阶段 2（60%）：增加**召唤小雪人**——「大雪人举锤怒吼，小雪人蜂拥而来！」
+  - 阶段 3（25%，狂暴）：**暴风雪弹幕** + 挥击 + 砸地 + 冰锥召唤 + 冲击波 + 滚动巨雪球 ——「暴风雪降临！冰石如雨！」
 
 ## 3. 第三关 · 熔岩火山
 

diff --git a/README.md b/README.md
@@ -42,7 +42,7 @@ iOS Safari 可「添加到主屏幕」全屏游玩；首次触摸后启用音频
 | 关 | 名称 | 首领 | 特色 |
 |---|---|---|---|
 | 1 | 暗夜森林 | 哥布林酋长 | 入门，哥布林刀盾 / 长矛兵 |
-| 2 | 雪岭寒关 | 大雪人 | 小雪人 / 木棒雪人 / 雪球雪人 / 冰甲雪人（`ref/snowman_sheet.png` 精灵）；锤击、冰雪冲击波、投掷冰石、滚动巨雪球、召唤小雪人；火弱冰抗 |
+| 2 | 雪岭寒关 | 大雪人 | 小雪人 / 木棒雪人 / 雪球雪人 / 冰甲雪人（`ref/snowman_sheet.png` 精灵）；首领用 `ref/snowboss_sheet.png` 动作帧：锁链冰锤挥击、砸地冰锥喷发、冰锥召唤、巨雪球投掷、冰霜冲击波、滚动巨雪球、召唤小雪人；表情头像；火弱冰抗 |
 | 3 | 熔岩火山 | 焰魔王·赤烎 | 地裂喷发、陨石、熔岩桥；掉落烈炎剑 |
 | 4 | 溪谷森林 | 哥布林大王 | 弓手、跳斩手、木桥、浅溪，战旗 |
 | 5 | 黑夜古堡（FINAL） | 吸血伯爵 | 蝙蝠 / 巨蝠、残影大王重战、王座大厅、血月；通关解锁 NG+ |
@@ -51,7 +51,7 @@ iOS Safari 可「添加到主屏幕」全屏游玩；首次触摸后启用音频
 
 ## 系统
 
-- **主角**：青衣剑客精灵（`ref/hero_sheet.png` 切图打包为 `assets/hero_atlas.png`），动画：待机、走、跑、跳、转身、五段连斩、突刺、横斩、升斩、下劈、旋风斩、剑气、闪避、格挡、蓄力、终结技、受击、倒地。切图脚本保证每帧只有一个人物（去除残影 / 斩击光弧 / 相邻帧残片、去灰边），所有帧统一脚底锚点与比例；动画帧率约为旧版 1.6–1.9 倍，攻击可在收招阶段输入缓冲接下一段，帧数少的动作带挤压 / 位移补间，缩放绘制开启平滑。敌人图集同样经过 `tools/clean_atlas.py` 清理（每帧只留主体、去半透明灰边与标签框、剔除残片帧）；第二关大雪人使用参考图中的高清正面立绘 + 补间动作。
+- **主角**：青衣剑客精灵（`ref/hero_sheet.png` 切图打包为 `assets/hero_atlas.png`），动画：待机、走、跑、跳、转身、五段连斩、突刺、横斩、升斩、下劈、旋风斩、剑气、闪避、格挡、蓄力、终结技、受击、倒地。切图脚本保证每帧只有一个人物（去除残影 / 斩击光弧 / 相邻帧残片、去灰边），所有帧统一脚底锚点与比例；动画帧率约为旧版 1.6–1.9 倍，攻击可在收招阶段输入缓冲接下一段，帧数少的动作带挤压 / 位移补间，缩放绘制开启平滑。敌人图集同样经过 `tools/clean_atlas.py` 清理（每帧只留主体、去半透明灰边与标签框、剔除残片帧）；第二关大雪人使用专用设定图 `ref/snowboss_sheet.png`，经 `tools/snowboss2.py`（rembg BiRefNet 抠图 + 去灰边 + 统一锚点）切出待机、行走、挥击、砸地、冰锥召唤、投掷、冲击波、死亡帧及冰锥 / 巨雪球特效与 HP 条表情头像，稀疏帧间用补间衔接。
 - **关卡节奏**：每波敌人分批增援入场（场上剩 ≤1 只时下一批冲入）。不闪避的自动脚本实测：第 1–4 关约 5.2–6.0 分钟，第 5 关约 7.3 分钟。
 - **掉落**：金币、魔法瓶、利剑（攻击 +）、护甲（防御 +）；精英与首领必掉。
 - **体力 / 终结技**：命中或受伤积累体力，满后按 L 释放「万剑归宗」——飞剑雨锁定屏内每个敌人。
@@ -69,6 +69,7 @@ iOS Safari 可「添加到主屏幕」全屏游玩；首次触摸后启用音频
 - `assets/` — 精灵图集（主角、哥布林、大哥布林、蝙蝠、吸血伯爵、法术特效）与各关远景
 - `ref/` — 原始美术参考图
 - `docs/关卡设计.md` — 关卡设计文档
-- `screenshot_stage2_boss.png` — 第二关大雪人首领战截图
+- `screenshot_stage2_boss.png` — 第二关大雪人首领战截图（冰锥召唤）
+- `screenshot_snowboss_check.png` — 大雪人切图帧检查表（脚底基线对齐、特效与表情头像）
 - `screenshot_anim_check.png` — 主角行走 + 连斩逐帧接触表（检查无重影）
 - `test_playwright.js` / `test_mobile.js` — 无头浏览器测试（开发用，需 `npm i playwright-core` 与本机 Chrome）
